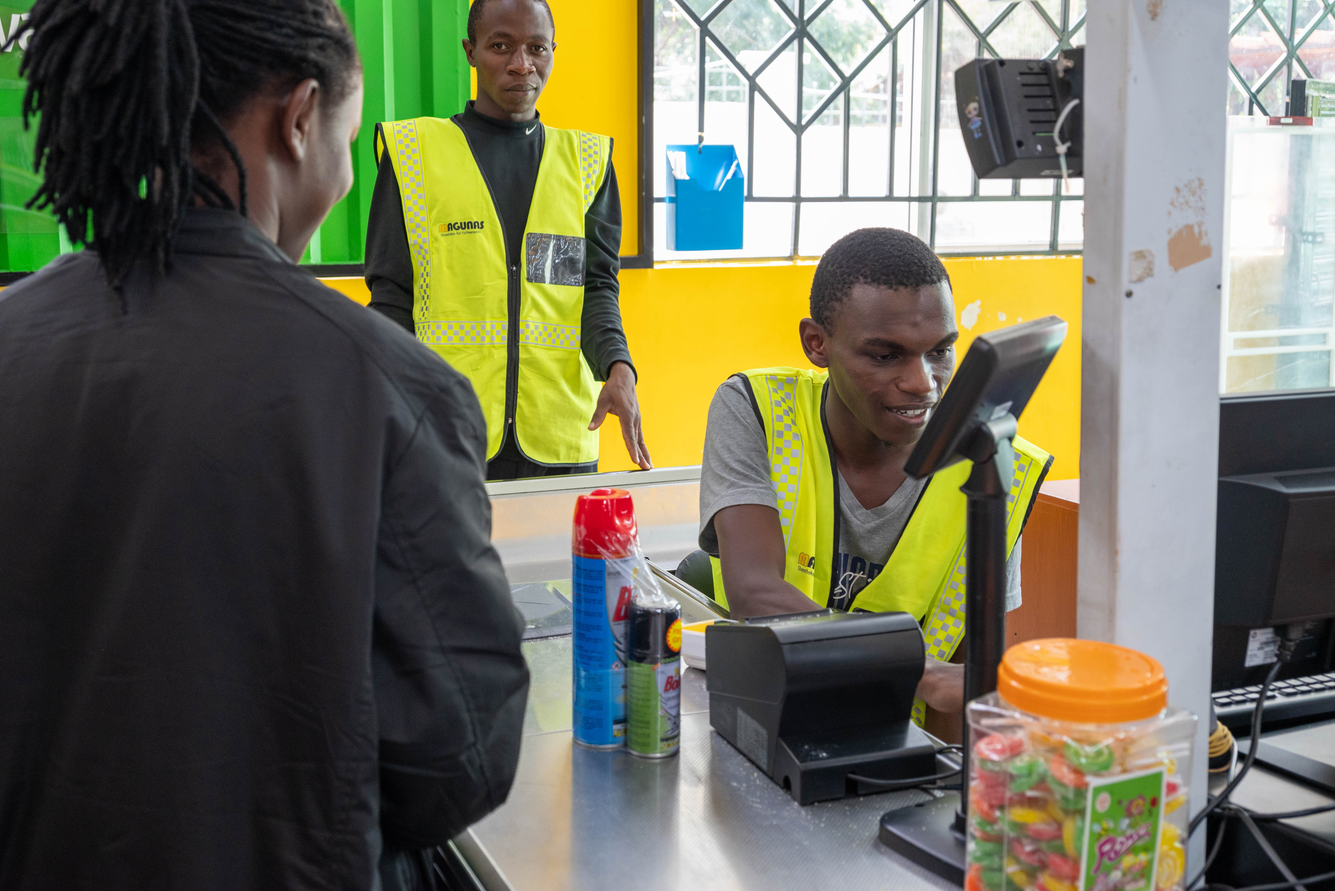
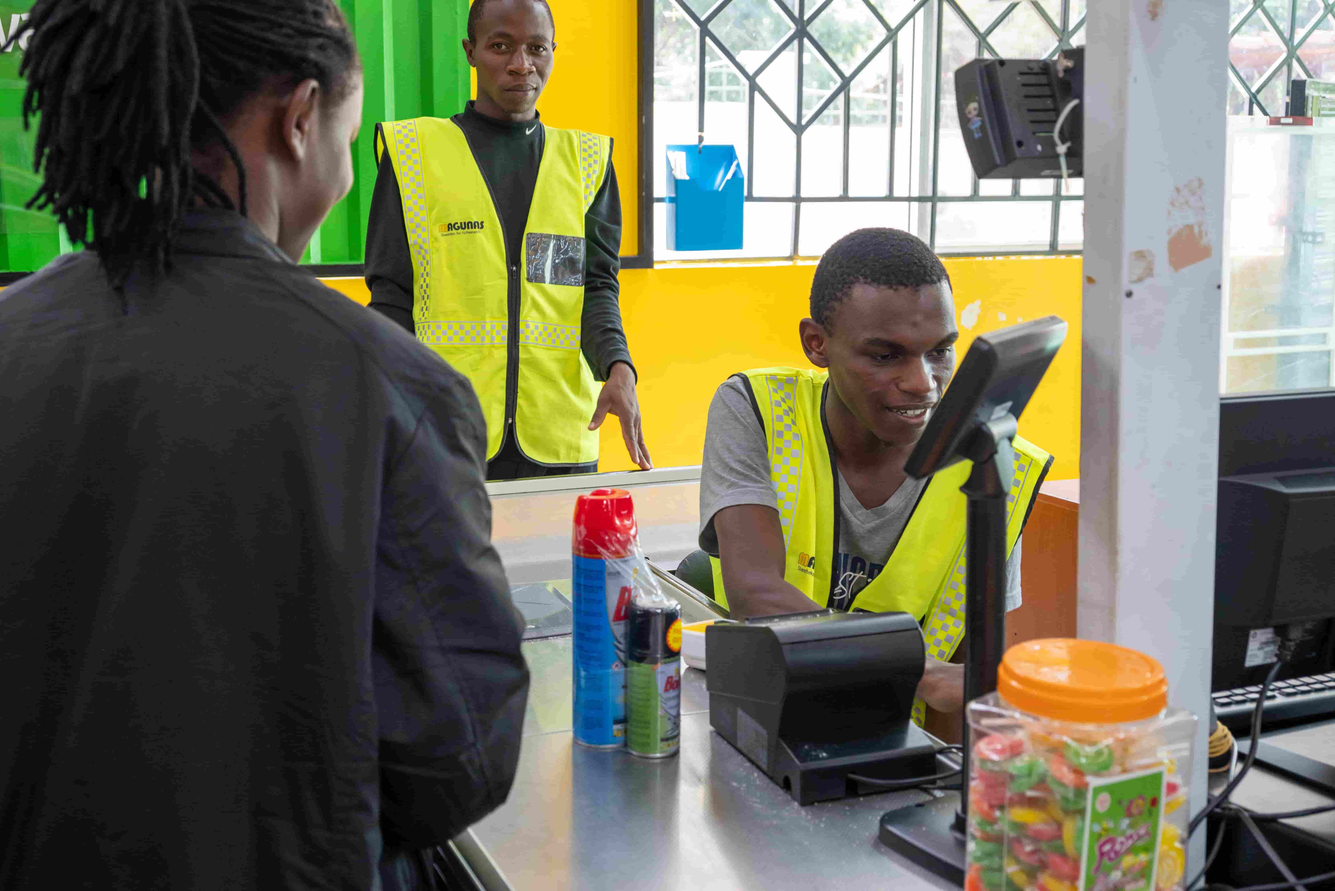
reduce image sizes

diff --git a/src/app/page.js b/src/app/page.js
@@ -1,4 +1,5 @@
 
+import Image from "next/image";
 import Footer from "./components/Footer";
 import Navbar from "./components/Navbar";
 
@@ -43,12 +44,12 @@ export default function Home() {
         <div className="basis-2/2 md:basis-1/2">
           <div className="flex items-center gap-2 ">
             <div className="space-y-2 basis-1/2">
-              <img src="/3.jpg" className="rounded-lg w-full object-cover"></img>
-              <img src="/4.jpg" className="rounded-lg w-full object-cover"></img>
-              <img src="/7.jpg" className="rounded-lg w-full object-cover"></img>
+              <Image height={300} width={800} src="/3.jpg" className="rounded-lg"/>
+              <Image height={300} width={800} src="/4.jpg" className="rounded-lg"/> 
+              <Image height={300} width={800} src="/7.jpg" className="rounded-lg"/> 
             </div>
             <div className="rounded-lg my-10 basis-1/2">
-              <img src="/8.png" className=" object-cover rounded-lg"></img>
+            <Image height={800} width={300} src="/8.jpg" className="rounded-lg"/> 
             </div>
 
           </div>
@@ -90,13 +91,13 @@ export default function Home() {
             </li>
           </ul>
         </div>
-        <img src="/9.jpg" className="w-full rounded-lg" />
-
+       
+        <Image height={300} width={800} src="/9.jpg" className="rounded-lg"/> 
 
       </section>
       <section className="container mx-auto px-5 md:px-20 py-8 grid grid-cols-1 md:grid-cols-2 gap-5">
         <div className="bg-[#6FBF42] rounded-lg p-4 space-y-5">
-          <img className="rounded-lg w-full object-cover h-80" src="/home/offers-2.jpg" />
+          <img className="rounded-lg w-full object-cover md:h-[340px]" src="/home/offers-2.jpg" />
           <h1 className="text-2xl">CORPORATE SOCIAL RESPONSIBILITY</h1>
           <p >Magunas is actively involved in contributing to the society through programs such as :
 
@@ -116,7 +117,7 @@ export default function Home() {
 
         </div>
         <div className="bg-[#F1C82D] rounded-lg p-4 space-y-5">
-          <img className="rounded-lg w-full object-cover h-80" src="/10.jpg" />
+        <Image height={200} width={550} src="/7.jpg" className="rounded-lg"/> 
           <h1 className="text-2xl">ENVIROMENTAL MANAGEMENT</h1>
           <p >In providing an eco- friendly environment to our customers and the business. We have included eco- friendly practices such as substitution of plastic packaging bags with polypropylene carrier bags, installing a recycle bin in every entry and exit points where customers dispose the non- organic materials and we proceed to recycle them for various uses, Installation of solar panels installing of
             solar panels and many other practices. This way we are able to protect our environment and continue to serve the community.
